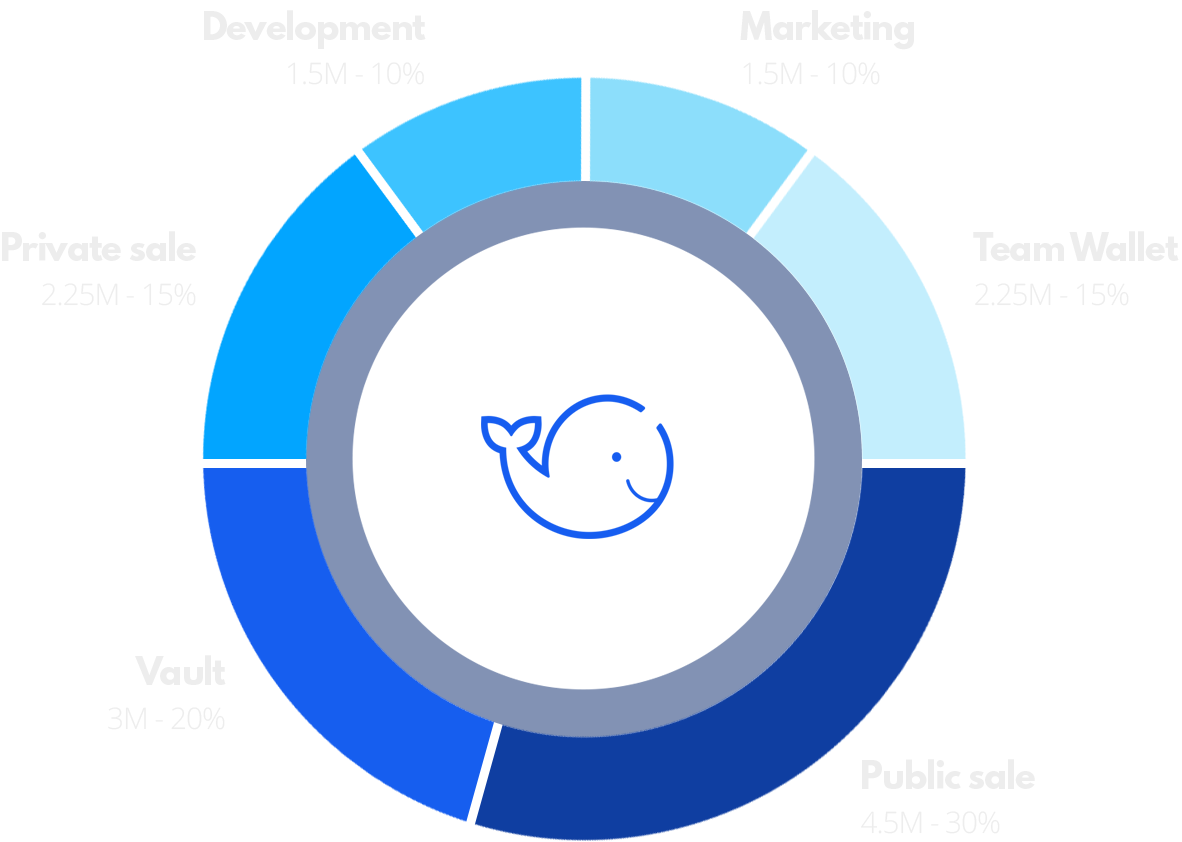
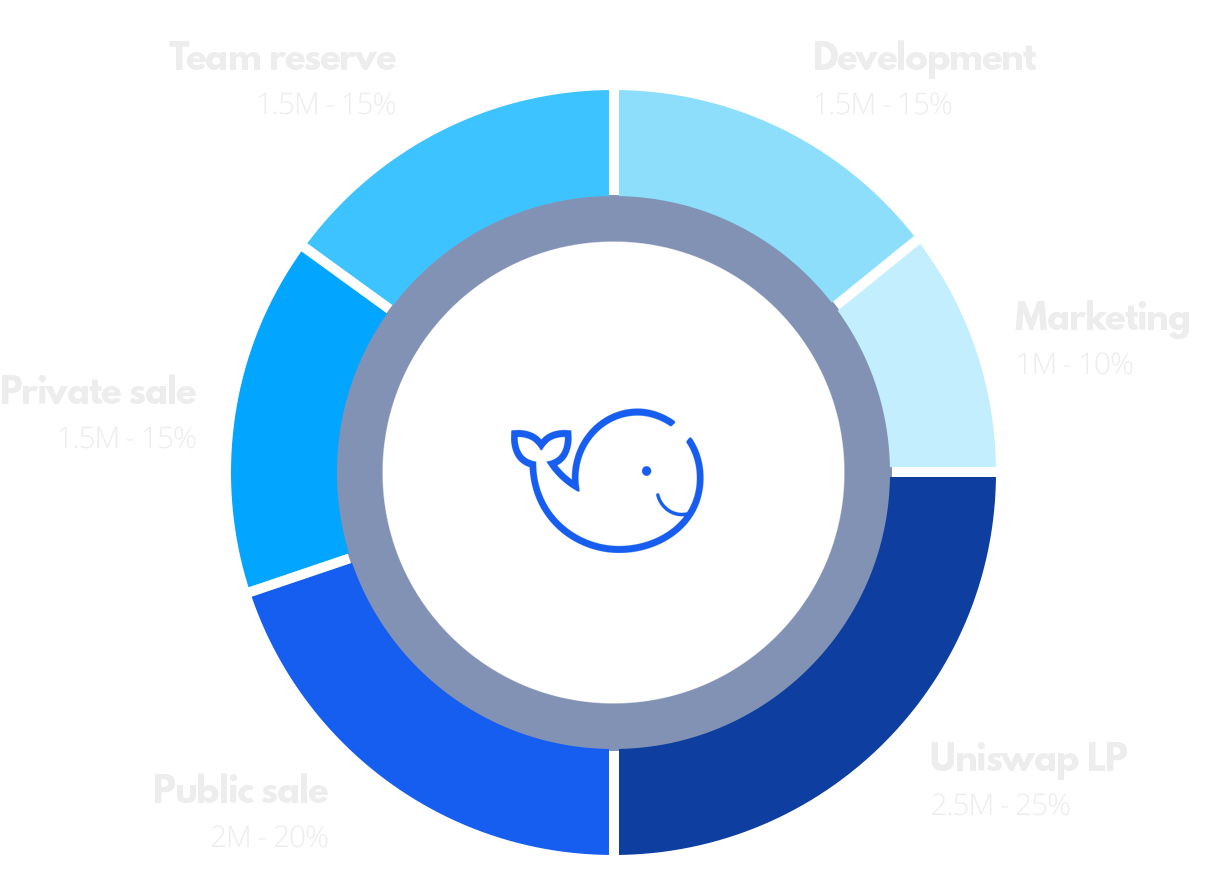
update text, update pie chart, remove app links

diff --git a/src/Layout/Footer.js b/src/Layout/Footer.js
@@ -1,13 +1,9 @@
 import React from 'react'
 import styled from 'styled-components'
-import Logo from '../assets/images/logo.svg'
 import Container from '../components/Container/Container.js'
 import * as palette from '../palette.js';
 import { H3, Paragraph } from '../components/Typography/Typography.js';
 import Button from '../components/Button/Button'
-import {ReactComponent as Medium} from '../assets/images/m-logo.svg'
-import {ReactComponent as Twitter} from '../assets/images/twitter.svg'
-import {ReactComponent as Telegram} from '../assets/images/telegram.svg'
 
 
 const Wrapper = styled.div`
@@ -87,7 +83,7 @@ const Footer = () => {
                         <a className="footerlink" href="mailto:info@uniwhales.io">Contact</a>
                     </div>
                     <div className="linkcol">
-                        <Button text="Launch App" href="https://app.uniwhales.io/" />
+                        <Button text="Launch App" href="#" />
                     </div>
                 </FooterCtn>
                 <Paragraph inverse>©2020 UniWhales.io All rights reserved</Paragraph>

diff --git a/src/components/Body/Hero/Hero.js b/src/components/Body/Hero/Hero.js
@@ -64,7 +64,7 @@ const Hero = () => {
                     <TextSection>
                         <H1 inverse >High volume Uniswap trades at a glance</H1>
                         <Paragraph inverse marginBottom >Uniwhales helps you track large volume transactions on Uniswap. See pumps, dumps, and interesting whale moves in real-time giving you a critical trading edge in this fast moving marketplace.</Paragraph>
-                        <Button text="Start Whale Watching" href="https://app.uniwhales.io/" />
+                        <Button text="Start Whale Watching" href="#" />
                     </TextSection>
                     <ImageSection>
                         <img src={Dashboard} alt="Uniwhales Dashboard" />

diff --git a/src/components/Body/TokenInfo/TokenInfo.js b/src/components/Body/TokenInfo/TokenInfo.js
@@ -60,7 +60,7 @@ const TokenInfo = () => {
                         <img src={Piechart} alt="pie chart" />
                     </PieChartCtn>
                     <Button text="Buy UWL" href="#" />
-                    <Paragraph inverse>Total supply 10,000,000 / 15,000,000<br/>Contract: contract url address<br/>Private sale price - 1 ETH = 5,000 | UWL Initial public sale price - 1 ETH = 6,000 UWL</Paragraph>
+                    <Paragraph inverse>Total supply 8,500,000 / 10,000,000<br/>Contract: contract url address<br/>UWL private sale price - 1 ETH = 10,000 UWL | UWL initial public sale price - 1 ETH = 8,000 UWL</Paragraph>
                 </InnerWrapper>
             </Container>
         </TokenWrapper>

diff --git a/src/components/Body/Levels/Levels.js b/src/components/Body/Levels/Levels.js
@@ -103,7 +103,7 @@ const Levels = () => {
                             </ListItem>
                         </List>
                         <div className="buttonbottom">
-                            <Button inverse text="Open App" href="https://app.uniwhales.io/" />
+                            <Button inverse text="Open App" href="#" />
                         </div>
                     </Card>
                     <Card>

diff --git a/src/Layout/Header.js b/src/Layout/Header.js
@@ -68,7 +68,7 @@ const Header = () => {
                         <TelegramLink href="https://t.me/uniwhales">
                             <Telegram />
                         </TelegramLink>
-                        <Button href="https://app.uniwhales.io/">Launch App</Button>
+                        <Button href="#">Launch App</Button>
                     </div>
                 </Nav>
             </Container>
